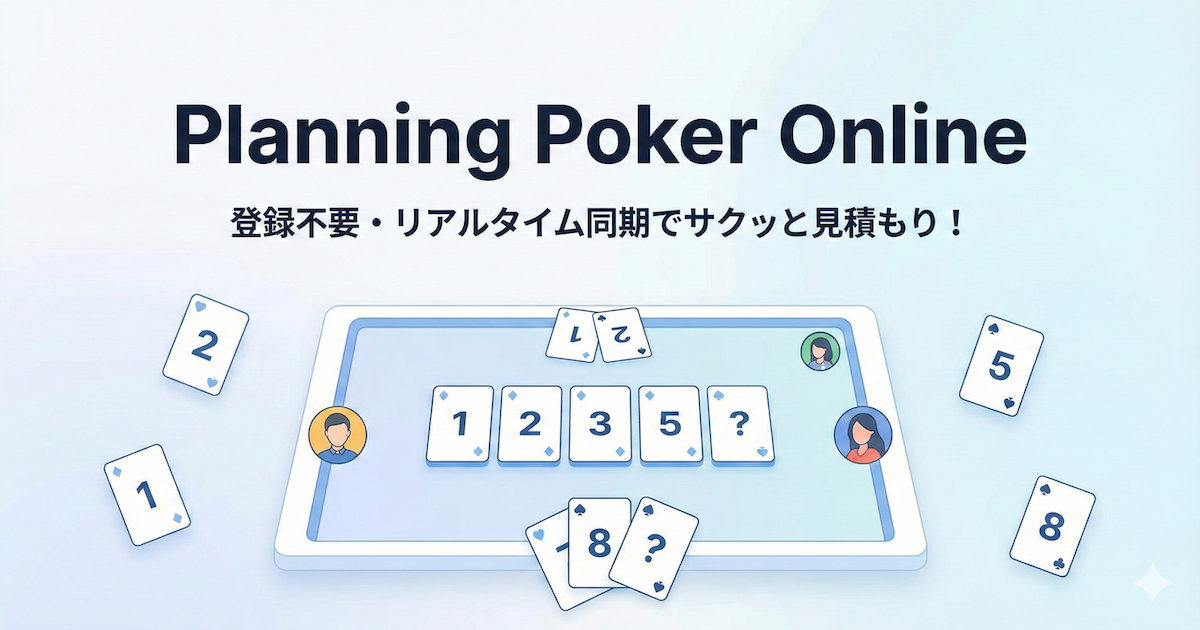
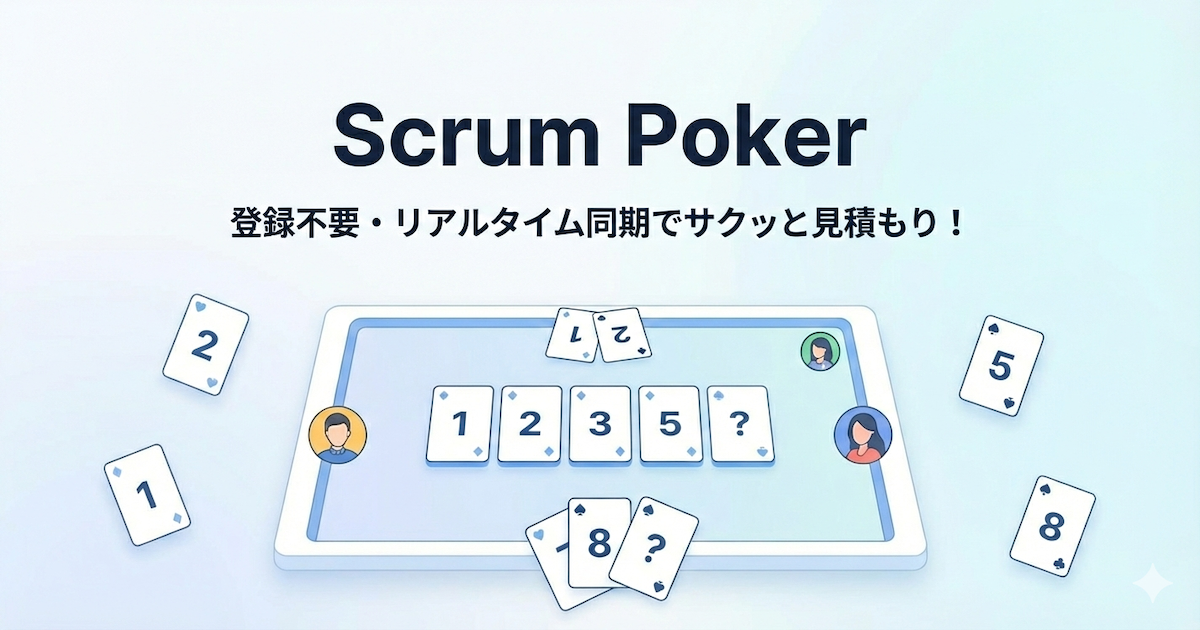
change: アプリ名をScrumPokerに変更

diff --git a/src/app/layout.tsx b/src/app/layout.tsx
@@ -13,20 +13,20 @@ const geistMono = Geist_Mono({
 });
 
 export const metadata: Metadata = {
-  metadataBase: new URL('https://planning-poker--planning-poker-de9bd.asia-east1.hosted.app'), 
+  metadataBase: new URL('https://planning-poker--planning-poker-de9bd.asia-east1.hosted.app'),
 
   title: {
-    default: 'Planning Poker Online',
-    template: '%s | Planning Poker Online',
+    default: 'Scrum Poker Online',
+    template: '%s | Scrum Poker Online',
   },
-  description: '登録不要・インストール不要ですぐに使えるプランニングポーカー。リアルタイムでチームの見積もりをサポートします。',
-  
+  description: '登録不要・インストール不要ですぐに使えるスクラムポーカー。リアルタイムでチームの見積もりをサポートします。',
+
   // Facebook, Slack, LINE用
   openGraph: {
-    title: 'Planning Poker Online',
+    title: 'Scrum Poker Online',
     description: 'チームで見積もり、サクッと合意。',
     url: '/',
-    siteName: 'Planning Poker Online',
+    siteName: 'Scrum Poker Online',
     locale: 'ja_JP',
     type: 'website',
     images: [
@@ -34,7 +34,7 @@ export const metadata: Metadata = {
         url: '/ogp.png', // publicフォルダの画像
         width: 1200,
         height: 630,
-        alt: 'Planning Poker App Preview',
+        alt: 'Scrum Poker App Preview',
       },
     ],
   },
@@ -42,8 +42,8 @@ export const metadata: Metadata = {
   // X (旧Twitter)用
   twitter: {
     card: 'summary_large_image',
-    title: 'Planning Poker Online',
-    description: '登録不要・インストール不要ですぐに使えるプランニングポーカー。',
+    title: 'Scrum Poker Online',
+    description: '登録不要・インストール不要ですぐに使えるスクラムポーカー。',
     images: ['/ogp.png'],
   },
 };

diff --git a/src/app/page.tsx b/src/app/page.tsx
@@ -14,7 +14,7 @@ export default function Home() {
               <Sparkles className="w-10 h-10 text-indigo-600" />
             </div>
             <h1 className="text-4xl sm:text-5xl font-extrabold text-gray-800 mb-3">
-              Planning Poker
+              Scrum Poker
             </h1>
             <p className="text-gray-500 text-lg">
               チームで見積もりを効率的に行いましょう
@@ -53,7 +53,7 @@ export default function Home() {
           {/* フッター情報 */}
           <div className="mt-10 pt-6 border-t border-gray-200">
             <p className="text-sm text-gray-400">
-              Planning Poker は、チームの見積もりを効率化するためのツールです
+              Scrum Poker は、チームの見積もりを効率化するためのツールです
             </p>
           </div>
         </div>
@@ -73,8 +73,8 @@ export default function Home() {
             <p className="text-sm font-semibold text-gray-700">平均値表示</p>
           </div>
         </div>
-        <footer className="mt-16 py-8 text-center text-gray-500 text-sm">
-          <p>© 2025 Planning Poker Online</p>
+         <footer className="mt-16 py-8 text-center text-gray-500 text-sm">
+           <p>© 2025 Scrum Poker Online</p>
           <div className="mt-2 space-x-4">
             <Link href="/terms" className="hover:underline">
               利用規約・プライバシーポリシー

diff --git a/src/app/rooms/[id]/page.tsx b/src/app/rooms/[id]/page.tsx
@@ -16,11 +16,11 @@ export async function generateMetadata({ params }: Props): Promise<Metadata> {
 
   return {
     title: `Room: ${roomId}`, // ブラウザのタブやOGPのタイトルになる
-    description: 'プランニングポーカーのルームに参加して見積もりを開始しましょう。',
-    
+    description: 'スクラムポーカーのルームに参加して見積もりを開始しましょう。',
+
     // layout.tsx の画像設定などを引き継ぎつつ、URLなどを上書き
     openGraph: {
-      title: `Room: ${roomId} | Planning Poker`,
+      title: `Room: ${roomId} | Scrum Poker`,
       description: 'クリックして見積もりに参加',
       url: `/rooms/${roomId}`,
     },
@@ -40,7 +40,7 @@ export default async function RoomPage({ params }: Props) {
                 <Sparkles className="w-6 h-6 text-indigo-600" />
               </div>
               <div>
-                <h1 className="text-lg font-bold text-gray-800">Planning Poker</h1>
+                <h1 className="text-lg font-bold text-gray-800">Scrum Poker</h1>
                 <p className="text-xs text-gray-500 font-mono">Room: {roomId}</p>
               </div>
             </div>

diff --git a/src/app/terms/page.tsx b/src/app/terms/page.tsx
@@ -10,7 +10,7 @@ export default function TermsPage() {
         
         <h3 className="text-xl font-semibold mb-2">1. 免責事項</h3>
         <p className="mb-4 text-sm leading-relaxed">
-          本アプリ「Planning Poker Online」（以下、当アプリ）を利用したことによって生じた、いかなる損害（データの消失、業務の遅滞などを含む）についても、運営者は一切の責任を負いません。
+          本アプリ「Scrum Poker Online」（以下、当アプリ）を利用したことによって生じた、いかなる損害（データの消失、業務の遅滞などを含む）についても、運営者は一切の責任を負いません。
           ユーザー自身の責任においてご利用ください。
         </p>
 
